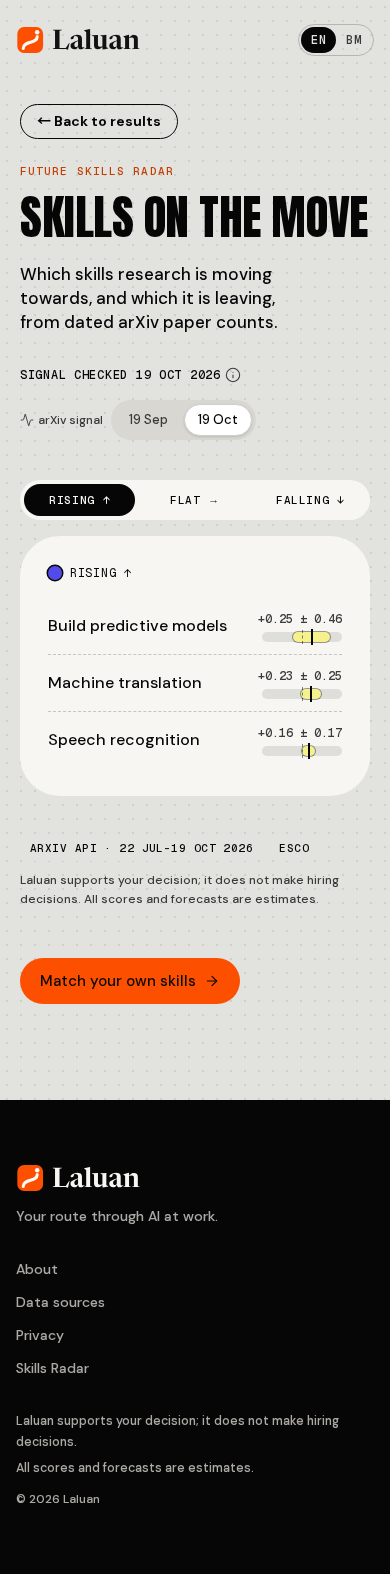
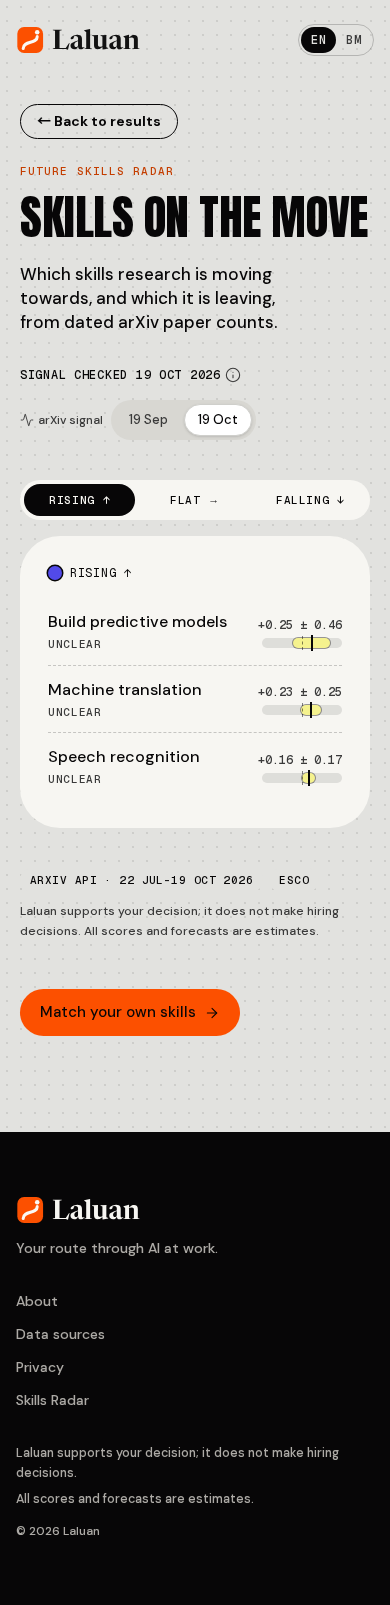
feat(radar): "Unclear" label when the 95% band crosses zero; limitations + README note
Peter's calls on #88: band stays on /radar only, not in the rank score.
- opencode: displayDirection + countUnclearLabels in radar.ts, tests in
  radar.test.ts and momentum-band.test.tsx (5 of 6 labels asserted).
- hand: radar-view.tsx wiring, EN/BM "Unclear"/"Tidak jelas" strings,
  README Future Improvements note, docs limitations, retaken screenshots.

diff --git a/src/components/radar-view.tsx b/src/components/radar-view.tsx
@@ -16,7 +16,7 @@ import type { SignalDate } from "@/lib/analyze";
 import { formatDayMonthYear, formatShortDate } from "@/lib/display";
 import { useT } from "@/lib/i18n";
 import type { MessageKey } from "@/lib/i18n-messages";
-import { MOMENTUM_Z95, percentChange, type MomentumBand, type Radar, type RadarSkill } from "@/lib/radar";
+import { displayDirection, MOMENTUM_Z95, percentChange, type MomentumBand, type Radar, type RadarSkill } from "@/lib/radar";
 import { cn } from "@/lib/utils";
 import type { IsoDate } from "@/types/contracts";
 
@@ -183,7 +183,14 @@ function SkillList({
                 onClick={() => onPick(skill, direction)}
                 className="flex w-full items-center justify-between gap-3 py-3 text-left hover:underline"
               >
-                <span className="text-[16px] font-medium first-letter:uppercase">{skill.label}</span>
+                <span className="flex flex-col gap-0.5">
+                  <span className="text-[16px] font-medium first-letter:uppercase">{skill.label}</span>
+                  {displayDirection(direction, skill.band) === "unclear" && (
+                    <span data-testid="unclear-label" className="font-mono text-[11px] tracking-[0.06em] text-grey uppercase">
+                      {t("radar.unclear")}
+                    </span>
+                  )}
+                </span>
                 <span className="flex shrink-0 flex-col items-end gap-1">
                   <span className="font-mono text-[12px] text-grey tabular-nums">
                     {signed(skill.momentum)}
@@ -210,7 +217,12 @@ function SkillDrawerBody({ skill, direction, radar, links }: { skill: RadarSkill
     <div className="flex flex-col gap-6 text-[15px]">
       <p className="flex items-center gap-2 font-mono text-[12px] tracking-[0.06em] uppercase">
         <span aria-hidden className={cn("size-3.5 rounded-full ring-[1.5px] ring-ink", DOT[direction])} />
-        {t(line.label)} {line.arrow} · {t("radar.momentum", { value: signed(skill.momentum) })}
+        {displayDirection(direction, skill.band) === "unclear" ? (
+          <span data-testid="direction-label">{t("radar.unclear")} ?</span>
+        ) : (
+          <span data-testid="direction-label">{t(line.label)} {line.arrow}</span>
+        )}{" "}
+        · {t("radar.momentum", { value: signed(skill.momentum) })}
       </p>
 
       {skill.band && (

diff --git a/src/components/momentum-band.test.tsx b/src/components/momentum-band.test.tsx
@@ -1,7 +1,16 @@
 import { render, screen } from "@testing-library/react";
-import { describe, expect, it } from "vitest";
-import { MomentumBandStrip } from "./radar-view";
+import { describe, expect, it, vi } from "vitest";
+import catalogue from "@/data/catalogue.json";
+import type { Catalogue } from "@/lib/catalogue";
 import { EN, MS } from "@/lib/i18n-messages";
+import { buildRadar, displayDirection } from "@/lib/radar";
+import { MomentumBandStrip, RadarView } from "./radar-view";
+
+vi.mock("next/navigation", () => ({
+  useSearchParams: () => new URLSearchParams(),
+}));
+
+const today = buildRadar(catalogue as unknown as Catalogue, "today")!;
 
 function fillLeft(): string {
   const strip = screen.getByTestId("momentum-band");
@@ -65,5 +74,36 @@ describe("radar.band i18n", () => {
       expect(value.toLowerCase(), key).not.toContain("machine");
       expect(value.toLowerCase(), key).not.toContain("mesin");
     }
+  });
+});
+
+
+describe("radar.unclear i18n", () => {
+  const cjk = /[\u3000-\u303f\u3040-\u30ff\u3400-\u4dbf\u4e00-\u9fff\uf900-\ufaff\uff00-\uffef]/;
+
+  it("says Unclear in EN and Tidak jelas in MS", () => {
+    expect(EN["radar.unclear"]).toBe("Unclear");
+    expect(MS["radar.unclear"]).toBe("Tidak jelas");
+  });
+
+  it("contains no CJK characters in either language", () => {
+    expect(EN["radar.unclear"]).not.toMatch(cjk);
+    expect(MS["radar.unclear"]).not.toMatch(cjk);
+  });
+});
+
+describe("RadarView skill list unclear labels", () => {
+  it("shows exactly the five rising/declining skills as unclear, and none of the steady ones", () => {
+    const directional = [
+      ...today.rising.map((skill) => ({ skill, direction: "rising" as const })),
+      ...today.declining.map((skill) => ({ skill, direction: "declining" as const })),
+    ];
+    const unclear = directional.filter(({ skill, direction }) => displayDirection(direction, skill.band) === "unclear");
+    expect(unclear).toHaveLength(5);
+    expect(unclear.length).toBeLessThan(directional.length);
+    expect(today.steady.filter((skill) => displayDirection("flat", skill.band) === "unclear")).toHaveLength(0);
+
+    render(<RadarView today={today} prior={null} dates={{ today: today.asOf, prior: null }} links={{}} />);
+    expect(screen.getAllByTestId("unclear-label")).toHaveLength(5);
   });
 });

diff --git a/src/lib/radar.test.ts b/src/lib/radar.test.ts
@@ -2,12 +2,15 @@ import { describe, expect, it } from "vitest";
 import { CATALOGUE } from "./catalogue";
 import {
   buildRadar,
+  countUnclearLabels,
+  displayDirection,
   FLAT_MOMENTUM,
   keywordMomentumSE,
   MOMENTUM_Z95,
   percentChange,
   skillMomentumBand,
 } from "./radar";
+import type { MomentumBand } from "./radar";
 import { skillMomentum } from "./scoring";
 
 describe("buildRadar on the real catalogue", () => {
@@ -100,6 +103,43 @@ describe("skillMomentumBand", () => {
 
   it("returns null for no keywords", () => {
     expect(skillMomentumBand([])).toBeNull();
+  });
+});
+
+describe("displayDirection", () => {
+  const band = (crossesZero: boolean): MomentumBand => ({
+    momentum: crossesZero ? 0.01 : 0.2,
+    se: 0.1,
+    low: crossesZero ? -0.19 : 0.1,
+    high: crossesZero ? 0.21 : 0.3,
+    crossesZero,
+  });
+
+  it("shows a rising skill as unclear when its band crosses zero", () => {
+    expect(displayDirection("rising", band(true))).toBe("unclear");
+  });
+
+  it("shows a declining skill as unclear when its band crosses zero", () => {
+    expect(displayDirection("declining", band(true))).toBe("unclear");
+  });
+
+  it("never changes flat, even when its band crosses zero", () => {
+    expect(displayDirection("flat", band(true))).toBe("flat");
+  });
+
+  it("keeps rising when its band does not cross zero", () => {
+    expect(displayDirection("rising", band(false))).toBe("rising");
+  });
+
+  it("leaves the direction unchanged when there is no band", () => {
+    expect(displayDirection("rising", null)).toBe("rising");
+    expect(displayDirection("declining", null)).toBe("declining");
+  });
+});
+
+describe("countUnclearLabels on the real catalogue", () => {
+  it("counts the rising/declining skills whose band crosses zero", () => {
+    expect(countUnclearLabels(buildRadar(CATALOGUE, "today")!)).toEqual({ changed: 5, total: 6 });
   });
 });
 

diff --git a/src/lib/radar.ts b/src/lib/radar.ts
@@ -146,6 +146,33 @@ export function buildRadar(catalogue: Catalogue, signalDate: SignalDate): Radar 
   };
 }
 
+export type DisplayDirection = "rising" | "flat" | "declining" | "unclear";
+
+/**
+ * The direction to show for a skill. A rising or declining momentum whose
+ * uncertainty band crosses zero is displayed as unclear, because the data
+ * cannot rule out no change; flat is never changed.
+ */
+export function displayDirection(
+  direction: "rising" | "flat" | "declining",
+  band: MomentumBand | null,
+): DisplayDirection {
+  if (direction !== "flat" && band?.crossesZero) return "unclear";
+  return direction;
+}
+
+/** How many of the rising/declining skills are shown as unclear, out of both groups. */
+export function countUnclearLabels(radar: Radar): { changed: number; total: number } {
+  const directional = [
+    ...radar.rising.map((skill) => ({ direction: "rising" as const, band: skill.band })),
+    ...radar.declining.map((skill) => ({ direction: "declining" as const, band: skill.band })),
+  ];
+  return {
+    changed: directional.filter(({ direction, band }) => displayDirection(direction, band) === "unclear").length,
+    total: directional.length,
+  };
+}
+
 /** "+12%" / "−8%": the change in papers between the two windows, for one keyword. */
 export function percentChange(keyword: Pick<CatalogueKeyword, "recent" | "previous">): string {
   const change = ((keyword.recent - keyword.previous) / Math.max(keyword.previous, 1)) * 100;

diff --git a/src/lib/i18n-messages.ts b/src/lib/i18n-messages.ts
@@ -651,6 +651,7 @@ export const EN = {
   "radar.drawerNoRoles": "No Laluan role lists this as an essential skill.",
   "radar.drawerNoKeywords": "No arXiv keyword with enough papers.",
   "radar.momentum": "Momentum {value}",
+  "radar.unclear": "Unclear",
   "radar.bandPlusMinus": "± {value}",
   "radar.bandTitle": "Estimate range (95%)",
   "radar.bandRange": "{low} to {high}",
@@ -1351,6 +1352,7 @@ export const MS: Record<MessageKey, string> = {
   "radar.drawerNoRoles": "Tiada peranan Laluan yang menyenaraikan ini sebagai kemahiran penting.",
   "radar.drawerNoKeywords": "Tiada kata kunci arXiv dengan kertas yang mencukupi.",
   "radar.momentum": "Momentum {value}",
+  "radar.unclear": "Tidak jelas",
   "radar.bandPlusMinus": "± {value}",
   "radar.bandTitle": "Julat anggaran (95%)",
   "radar.bandRange": "{low} hingga {high}",

diff --git a/docs/trend-uncertainty-band.md b/docs/trend-uncertainty-band.md
@@ -12,6 +12,12 @@ Band = momentum ± 1.96 · SE (approximate 95% range). If the band crosses zero,
 
 Every number comes from data/keywords.csv (or keywords_prior.csv for the prior snapshot); 1.96 is the standard normal 95% value.
 
-## Not covered
-Keyword choice, arXiv indexing lag, and snapshot-to-snapshot drift. The prior/today spread was considered but
-there are only 2 snapshots, too few for a spread estimate. Role-level bands (and the "Trend ±x.x pts" row in PR #86) are not wired here because #86 is not on main.
+## Labels on /radar
+When a Rising or Falling skill's 95% range crosses zero, /radar shows "Unclear" (BM "Tidak jelas") instead. Flat skills, scores and other pages are unchanged. With today's snapshot this changes 5 of the 6 Rising/Falling labels (asserted in src/lib/radar.test.ts via countUnclearLabels).
+
+## Limitations
+- A skill's keywords are correlated (they overlap in papers and topics), but the method treats them as independent, so the band may be too narrow.
+- arXiv indexing has a lag: recent papers can still be missing from the last-90-days count, which biases recent momentum down. The band does not cover this.
+- Keyword choice is not covered: a different set of keywords for the same skill could give a different momentum.
+- Only 2 snapshots exist, too few for a spread across snapshots.
+- The band is on /radar only. It is not part of the rank score (see README, Future Improvements).

diff --git a/README.md b/README.md
@@ -253,6 +253,7 @@ This repo starts from our declared starter (`Jie-coder/sdc-starter`, tag `starte
 1. **Live salary and job data**: replace the manually checked JobStreet salaries with scheduled automatic updates, and add newer DOSM releases.
 2. **More roles and Bahasa Malaysia**: expand beyond the current 40 roles and add a Bahasa Malaysia interface to reach more users.
 3. **Real-user validation**: test with real users to validate pathway gap coverage and SDG mapping accuracy, replacing the three synthetic personas.
+4. **Trend uncertainty in the rank score**: the 95% momentum band on /radar could later be propagated through role momentum into the rank score, so the trend part of a score shows a ± range. Today the band is shown on /radar only.
 
 ## Team
 
